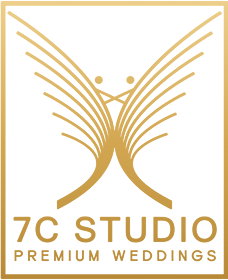
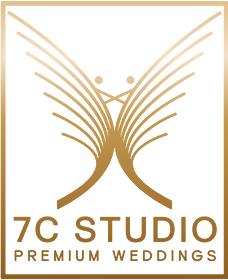
fix(navbar): refine gold palette from yellow to authentic champagne gold

diff --git a/Components/Navbar.module.css b/Components/Navbar.module.css
@@ -8,7 +8,7 @@
   position: relative;
   display: inline-block;
   font-weight: 700;
-  color: var(--color-brand-gold, #D4A853);
+  color: var(--color-brand-gold, #C59B53);
   transition: color 300ms ease, transform 300ms ease;
 }
 
@@ -16,11 +16,11 @@
 .navLink:hover .linkLabel {
   background: linear-gradient(
     115deg,
-    #D4A853 0%,
-    #E6C57A 28%,
-    #FAF0D7 50%,
-    #E6C57A 72%,
-    #D4A853 100%
+    #A77732 0%,
+    #C59B53 25%,
+    #F5E0C5 50%,
+    #C59B53 75%,
+    #A77732 100%
   );
   background-size: 250% 100%;
   -webkit-background-clip: text;
@@ -47,7 +47,7 @@
   bottom: -0.4rem;
   left: 0;
   height: 2px;
-  background: #D4A853;
+  background: #C59B53;
   border-radius: 2px;
   pointer-events: none;
   transform: scaleX(0);
@@ -63,7 +63,7 @@
 }
 
 .navLink[aria-current="page"] .linkLabel {
-  color: #D4A853 !important;
+  color: #C59B53 !important;
 }
 
 @media (prefers-reduced-motion: reduce) {

diff --git a/Components/Footer.module.css b/Components/Footer.module.css
@@ -80,11 +80,11 @@
 .taglineAccent:hover {
   background: linear-gradient(
     115deg,
-    #D4A853 0%,
-    #E6C57A 28%,
-    #FAF0D7 50%,
-    #E6C57A 72%,
-    #D4A853 100%
+    #A77732 0%,
+    #C59B53 25%,
+    #F5E0C5 50%,
+    #C59B53 75%,
+    #A77732 100%
   );
   background-size: 250% 100%;
   -webkit-background-clip: text;
@@ -288,11 +288,11 @@
 .bottomHighlight:hover {
   background: linear-gradient(
     115deg,
-    #D4A853 0%,
-    #E6C57A 28%,
-    #FAF0D7 50%,
-    #E6C57A 72%,
-    #D4A853 100%
+    #A77732 0%,
+    #C59B53 25%,
+    #F5E0C5 50%,
+    #C59B53 75%,
+    #A77732 100%
   );
   background-size: 250% 100%;
   -webkit-background-clip: text;

diff --git a/app/globals.css b/app/globals.css
@@ -15,9 +15,9 @@
   --color-brand-red-hover: #A81E2B;
   --color-brand-burgundy: #6D0F1A;
   --color-brand-burgundy-rich: #A81E2B;
-  --color-brand-gold: #D4A853;
-  --color-brand-gold-deep: #B38636;
-  --color-brand-gold-light: #E5C173;
+  --color-brand-gold: #C59B53;
+  --color-brand-gold-deep: #A77732;
+  --color-brand-gold-light: #E4C493;
   --color-brand-ivory: #FAEBD7;
   --color-brand-blush: #F4E5D8;
   --color-brand-taupe: #D7C3B6;
